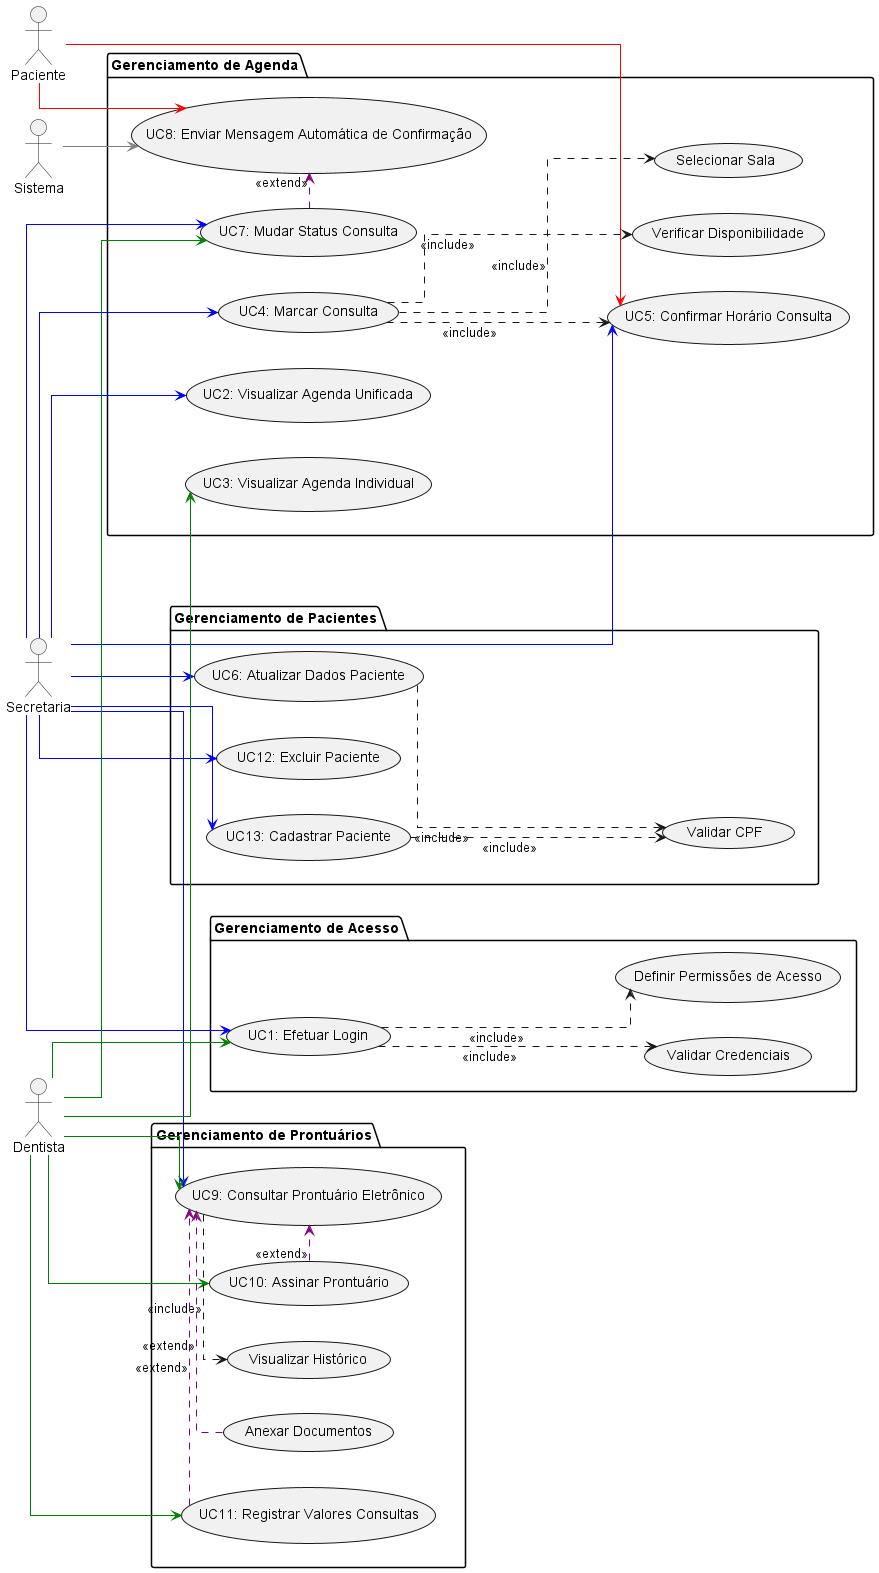
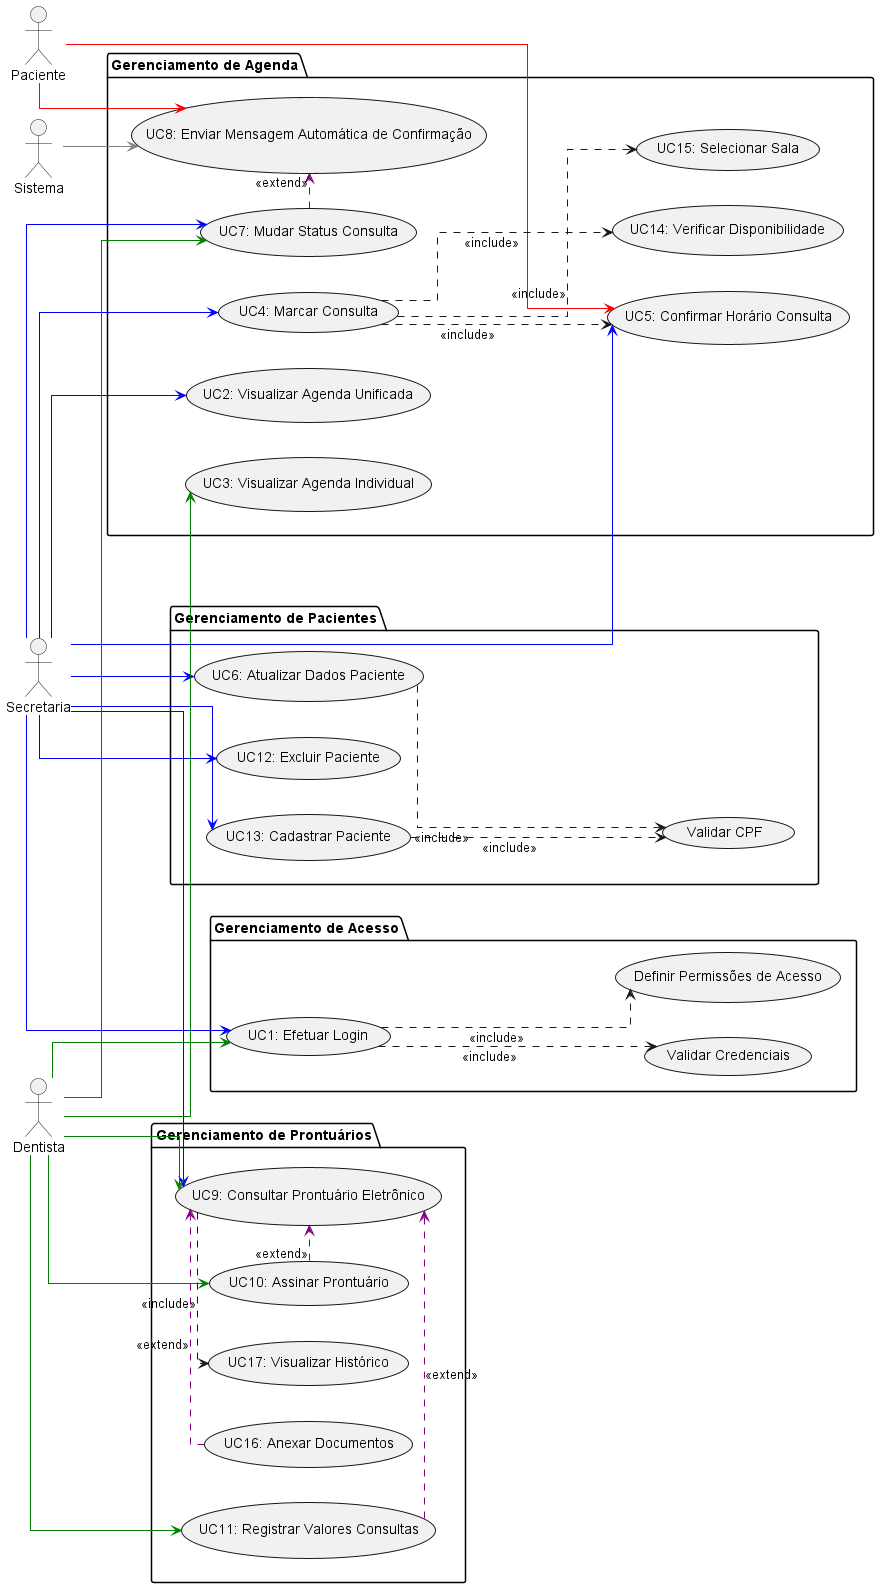
atualizacoes

diff --git a/documentos_de_casos_de_uso/documento_caso_de_uso.md b/documentos_de_casos_de_uso/documento_caso_de_uso.md
@@ -302,3 +302,115 @@ Permite à secretária cadastrar novos pacientes no sistema, registrando informa
 
 **Pós-condições:**
 -   Novo paciente cadastrado no sistema e disponível para agendamento de consultas.
+
+---
+
+## UC14: Verificar disponibilidade
+
+**Atores:** Secretaria (indiretamente)
+
+**Descrição:**
+Permite ao sistema verificar automaticamente a disponibilidade de horários para agendamento de consultas, considerando os horários já ocupados pelos dentistas e salas.
+
+**Fluxo Principal:**
+1.  Durante o processo de marcação de consulta, o sistema recebe os parâmetros de data, horário e dentista desejados.
+2.  O sistema consulta a agenda do dentista selecionado.
+3.  O sistema verifica se não há conflitos de horário na data e horário informados.
+4.  O sistema retorna a confirmação de disponibilidade ou lista de conflitos.
+
+**Fluxos Alternativos:**
+-   Caso o horário não esteja disponível, o sistema pode sugerir horários alternativos próximos.
+-   Se o dentista não estiver disponível, o sistema pode sugerir outros profissionais.
+
+**Pré-condições:**
+-   O dentista deve estar cadastrado no sistema.
+-   A data e horário desejados devem ser informados.
+
+**Pós-condições:**
+-   Disponibilidade verificada e confirmada ou rejeitada.
+
+---
+
+## UC15: Selecionar sala
+
+**Atores:** Secretaria
+
+**Descrição:**
+Permite à secretária selecionar uma sala apropriada para a realização da consulta, com base na disponibilidade e características necessárias para o atendimento.
+
+**Fluxo Principal:**
+1.  Durante o processo de marcação de consulta, a secretária verifica salas disponíveis.
+2.  O sistema exibe a lista de salas livres no horário selecionado.
+3.  A secretária seleciona uma sala adequada para o atendimento.
+4.  O sistema registra a sala como ocupada para aquele horário.
+
+**Fluxos Alternativos:**
+-   Caso não exista sala disponível no horário desejado, o sistema informa a indisponibilidade.
+-   A secretária pode visualizar os recursos disponíveis em cada sala antes de selecionar.
+
+**Pré-condições:**
+-   Horário de consulta já definido.
+-   Dentista já selecionado para o atendimento.
+
+**Pós-condições:**
+-   Sala reservada para a consulta.
+
+---
+
+## UC16: Anexar documentos
+
+**Atores:** Secretaria, Dentista
+
+**Descrição:**
+Permite à secretária e aos dentistas anexar documentos digitais ao prontuário do paciente, como exames, radiografias, fotos clínicas e outros arquivos relevantes para o tratamento.
+
+**Fluxo Principal:**
+1.  O usuário acessa o prontuário do paciente.
+2.  Seleciona a opção de anexar documentos.
+3.  Escolhe o tipo de documento (radiografia, foto clínica, exame laboratorial, etc).
+4.  Seleciona o arquivo a ser anexado a partir do dispositivo.
+5.  Adiciona uma descrição para o documento.
+6.  O sistema valida o formato e tamanho do arquivo.
+7.  O sistema anexa o documento ao prontuário.
+
+**Fluxos Alternativos:**
+-   Caso o arquivo tenha formato inválido ou tamanho excessivo, o sistema exibe mensagem de erro.
+-   O usuário pode cancelar o anexo a qualquer momento.
+-   Possibilidade de visualizar, substituir ou excluir documentos já anexados.
+
+**Pré-condições:**
+-   O paciente deve estar cadastrado no sistema.
+-   Usuário deve ter permissão para acessar o prontuário.
+
+**Pós-condições:**
+-   Documento anexado ao prontuário eletrônico.
+
+---
+
+## UC17: Visualizar histórico
+
+**Atores:** Secretaria, Dentista
+
+**Descrição:**
+Permite à secretária e aos dentistas visualizar o histórico completo de atendimentos, procedimentos e evolução clínica do paciente, fornecendo uma visão cronológica dos tratamentos realizados.
+
+**Fluxo Principal:**
+1.  O usuário acessa o prontuário do paciente.
+2.  Seleciona a opção de visualizar histórico.
+3.  O sistema exibe todas as consultas anteriores em ordem cronológica.
+4.  O usuário pode filtrar por período, dentista ou tipo de procedimento.
+5.  O sistema apresenta detalhes de cada atendimento quando solicitado.
+
+**Fluxos Alternativos:**
+-   Caso o paciente não possua histórico de atendimentos, o sistema exibe mensagem informativa.
+-   O usuário pode exportar o histórico para formatos como PDF, se necessário.
+
+**Pré-condições:**
+-   O paciente deve estar cadastrado no sistema.
+-   Usuário deve ter permissão para acessar o prontuário.
+
+**Pós-condições:**
+-   Histórico de atendimentos visualizado.
+
+**Pós-condições:**
+-   Novo paciente cadastrado no sistema e disponível para agendamento de consultas.

diff --git a/documentos_de_casos_de_uso/UC16_anexar_documentos.md b/documentos_de_casos_de_uso/UC16_anexar_documentos.md
@@ -1,0 +1,27 @@
+# Caso de Uso: Anexar documentos
+
+**Atores:** Secretaria, Dentista
+
+**Descrição:**
+Permite à secretária e aos dentistas anexar documentos digitais ao prontuário do paciente, como exames, radiografias, fotos clínicas e outros arquivos relevantes para o tratamento.
+
+**Fluxo Principal:**
+1. O usuário acessa o prontuário do paciente.
+2. Seleciona a opção de anexar documentos.
+3. Escolhe o tipo de documento (radiografia, foto clínica, exame laboratorial, etc).
+4. Seleciona o arquivo a ser anexado a partir do dispositivo.
+5. Adiciona uma descrição para o documento.
+6. O sistema valida o formato e tamanho do arquivo.
+7. O sistema anexa o documento ao prontuário.
+
+**Fluxos Alternativos:**
+- Caso o arquivo tenha formato inválido ou tamanho excessivo, o sistema exibe mensagem de erro.
+- O usuário pode cancelar o anexo a qualquer momento.
+- Possibilidade de visualizar, substituir ou excluir documentos já anexados.
+
+**Pré-condições:**
+- O paciente deve estar cadastrado no sistema.
+- Usuário deve ter permissão para acessar o prontuário.
+
+**Pós-condições:**
+- Documento anexado ao prontuário eletrônico.

diff --git a/documentos_de_casos_de_uso/UC14_verificar_disponibilidade.md b/documentos_de_casos_de_uso/UC14_verificar_disponibilidade.md
@@ -1,0 +1,23 @@
+# Caso de Uso: Verificar disponibilidade
+
+**Atores:** Secretaria (indiretamente)
+
+**Descrição:**
+Permite ao sistema verificar automaticamente a disponibilidade de horários para agendamento de consultas, considerando os horários já ocupados pelos dentistas e salas.
+
+**Fluxo Principal:**
+1. Durante o processo de marcação de consulta, o sistema recebe os parâmetros de data, horário e dentista desejados.
+2. O sistema consulta a agenda do dentista selecionado.
+3. O sistema verifica se não há conflitos de horário na data e horário informados.
+4. O sistema retorna a confirmação de disponibilidade ou lista de conflitos.
+
+**Fluxos Alternativos:**
+- Caso o horário não esteja disponível, o sistema pode sugerir horários alternativos próximos.
+- Se o dentista não estiver disponível, o sistema pode sugerir outros profissionais.
+
+**Pré-condições:**
+- O dentista deve estar cadastrado no sistema.
+- A data e horário desejados devem ser informados.
+
+**Pós-condições:**
+- Disponibilidade verificada e confirmada ou rejeitada.

diff --git a/documentos_de_casos_de_uso/UC17_visualizar_historico.md b/documentos_de_casos_de_uso/UC17_visualizar_historico.md
@@ -1,0 +1,24 @@
+# Caso de Uso: Visualizar histórico
+
+**Atores:** Secretaria, Dentista
+
+**Descrição:**
+Permite à secretária e aos dentistas visualizar o histórico completo de atendimentos, procedimentos e evolução clínica do paciente, fornecendo uma visão cronológica dos tratamentos realizados.
+
+**Fluxo Principal:**
+1. O usuário acessa o prontuário do paciente.
+2. Seleciona a opção de visualizar histórico.
+3. O sistema exibe todas as consultas anteriores em ordem cronológica.
+4. O usuário pode filtrar por período, dentista ou tipo de procedimento.
+5. O sistema apresenta detalhes de cada atendimento quando solicitado.
+
+**Fluxos Alternativos:**
+- Caso o paciente não possua histórico de atendimentos, o sistema exibe mensagem informativa.
+- O usuário pode exportar o histórico para formatos como PDF, se necessário.
+
+**Pré-condições:**
+- O paciente deve estar cadastrado no sistema.
+- Usuário deve ter permissão para acessar o prontuário.
+
+**Pós-condições:**
+- Histórico de atendimentos visualizado.

diff --git a/documentos_de_casos_de_uso/UC15_selecionar_sala.md b/documentos_de_casos_de_uso/UC15_selecionar_sala.md
@@ -1,0 +1,23 @@
+# Caso de Uso: Selecionar sala
+
+**Atores:** Secretaria
+
+**Descrição:**
+Permite à secretária selecionar uma sala apropriada para a realização da consulta, com base na disponibilidade e características necessárias para o atendimento.
+
+**Fluxo Principal:**
+1. Durante o processo de marcação de consulta, a secretária verifica salas disponíveis.
+2. O sistema exibe a lista de salas livres no horário selecionado.
+3. A secretária seleciona uma sala adequada para o atendimento.
+4. O sistema registra a sala como ocupada para aquele horário.
+
+**Fluxos Alternativos:**
+- Caso não exista sala disponível no horário desejado, o sistema informa a indisponibilidade.
+- A secretária pode visualizar os recursos disponíveis em cada sala antes de selecionar.
+
+**Pré-condições:**
+- Horário de consulta já definido.
+- Dentista já selecionado para o atendimento.
+
+**Pós-condições:**
+- Sala reservada para a consulta.

diff --git a/README.md b/README.md
@@ -68,6 +68,10 @@ A documentação completa do projeto está disponível nos seguintes documentos:
 11. [UC11: Registrar Valores Consultas](./documentos_de_casos_de_uso/UC11_registrar_valores_consultas.md)
 12. [UC12: Excluir Paciente](./documentos_de_casos_de_uso/UC12_excluir_paciente.md)
 13. [UC13: Cadastrar Paciente](./documentos_de_casos_de_uso/UC13_cadastrar_paciente.md)
+14. [UC14: Verificar Disponibilidade](./documentos_de_casos_de_uso/UC14_verificar_disponibilidade.md)
+15. [UC15: Selecionar Sala](./documentos_de_casos_de_uso/UC15_selecionar_sala.md)
+16. [UC16: Anexar Documentos](./documentos_de_casos_de_uso/UC16_anexar_documentos.md)
+17. [UC17: Visualizar Histórico](./documentos_de_casos_de_uso/UC17_visualizar_historico.md)
 
 ## 🛠 Tecnologias
 

diff --git a/Listagem_de_requisitos.md b/Listagem_de_requisitos.md
@@ -17,7 +17,10 @@
 - Mudar status consulta
 - Marcar consulta
 - Registrar valores consultas
-- 
+- Verificar disponibilidade de horários
+- Selecionar sala para atendimento
+- Anexar documentos ao prontuário
+- Visualizar histórico de atendimentos
 
 ### Não funcionais
 
